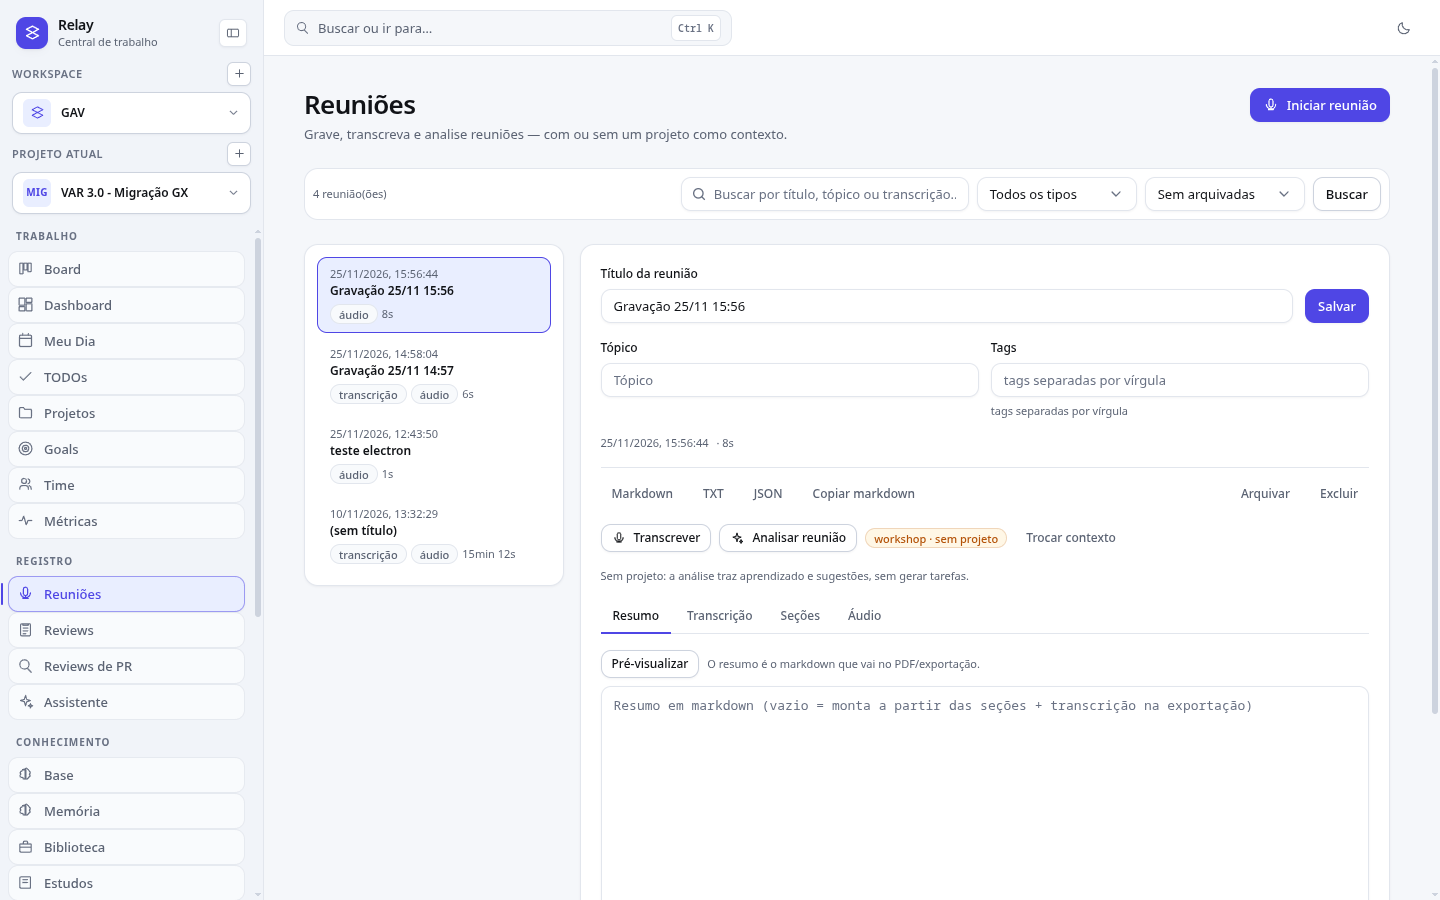
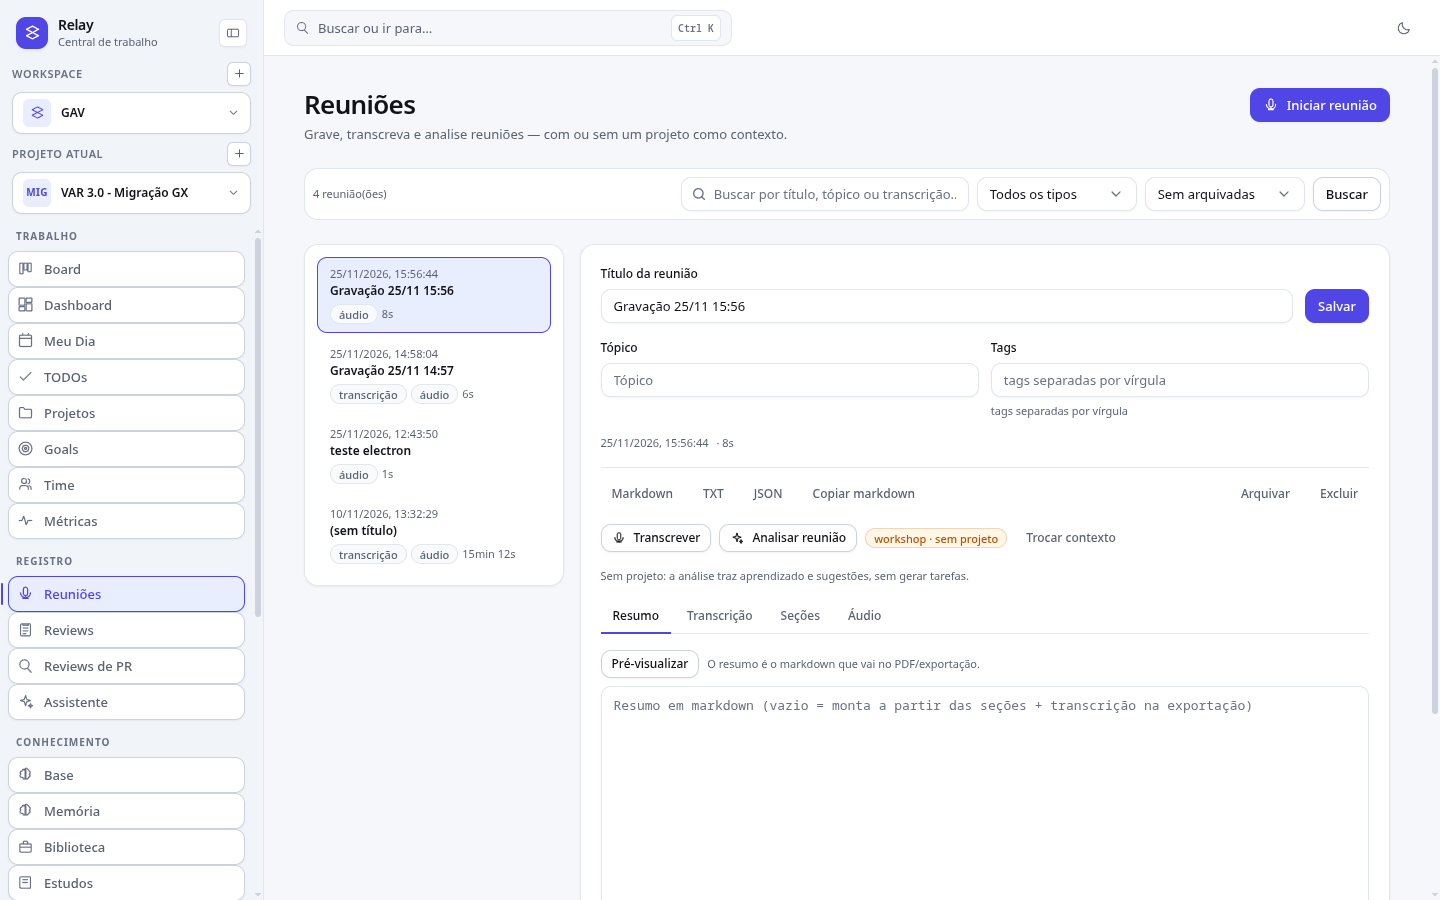
fix(ui): forçar bundle atual no Electron e reforçar bordas do menu
- Electron limpa cache HTTP e service workers/cachestorage a cada boot
- PWA usa relay-v2; no Electron o SW é removido para não servir UI antiga
- itens do menu com borda forte, fundo de superfície e hover accent
- prints oficiais recapturados

diff --git a/local-client/webui/src/shell/Sidebar.jsx b/local-client/webui/src/shell/Sidebar.jsx
@@ -65,8 +65,8 @@ function NavItem({ to, label, icon, rail, badge, onClick }) {
           'group relative flex h-9 items-center gap-2.5 rounded-md border px-2 text-base font-medium transition',
           rail ? 'justify-center px-0' : '',
           isActive
-            ? 'border-accent/50 bg-accent-soft text-accent shadow-xs'
-            : 'border-border/80 bg-surface/60 text-fg-muted hover:border-border-strong hover:bg-surface hover:text-fg hover:shadow-xs',
+            ? 'border-accent bg-accent-soft text-accent shadow-sm'
+            : 'border-border-strong bg-surface text-fg-muted shadow-xs hover:border-accent/50 hover:bg-surface-2 hover:text-fg',
         ].join(' ')
       }
     >
@@ -160,7 +160,7 @@ export default function Sidebar({ rail, onToggleRail, onNavigate, children }) {
           <a
             href="relay://vault"
             title={t('Cofre KeePass no desktop')}
-            className={`group flex h-9 items-center gap-2.5 rounded-md border border-border/80 bg-surface/60 px-2 text-base font-medium text-fg-muted transition hover:border-border-strong hover:bg-surface hover:text-fg hover:shadow-xs ${rail ? 'justify-center px-0' : ''}`}
+            className={`group flex h-9 items-center gap-2.5 rounded-md border border-border-strong bg-surface px-2 text-base font-medium text-fg-muted shadow-xs transition hover:border-accent/50 hover:bg-surface-2 hover:text-fg ${rail ? 'justify-center px-0' : ''}`}
           >
             <span className="text-fg-subtle group-hover:text-fg-muted"><Icon name="lock" size={17} /></span>
             {!rail && (

diff --git a/electron/main.js b/electron/main.js
@@ -221,7 +221,7 @@ function recoverRenderer(reason) {
   try { win.reload(); } catch (e) { log('falha ao recarregar:', e.message); }
 }
 
-function createWindow() {
+async function createWindow() {
   const route = parseRoute();
   win = new BrowserWindow({
     width: 1400,
@@ -233,6 +233,15 @@ function createWindow() {
     },
   });
   if (route) log('rota inicial:', route);
+  // O bundle é servido localmente; limpar o cache evita abrir uma UI antiga
+  // depois de atualizar o webui-dist (o service worker do PWA é removido junto).
+  try {
+    await win.webContents.session.clearCache();
+    await win.webContents.session.clearStorageData({ storages: ['serviceworkers', 'cachestorage'] });
+    log('cache da UI limpo na inicialização');
+  } catch (e) {
+    log('falha ao limpar cache da UI:', e.message);
+  }
   win.loadURL(urlFor(route));
   win.webContents.on('render-process-gone', (_event, details) => {
     log('renderer encerrado:', details.reason, details.exitCode);
@@ -372,7 +381,7 @@ if (!gotLock) {
       app.quit();
       return;
     }
-    createWindow();
+    createWindow().catch((e) => log('falha ao criar janela:', e?.message || e));
     try {
       createTray();
     } catch (e) {

diff --git a/local-client/webui/src/main.jsx b/local-client/webui/src/main.jsx
@@ -10,7 +10,22 @@ import './styles/theme.css'
 applyTheme(getTheme())
 
 // PWA: registra o service worker (só no build de produção)
-if (import.meta.env.PROD && 'serviceWorker' in navigator) {
+const IS_ELECTRON = /Electron/i.test(navigator.userAgent)
+if (IS_ELECTRON && 'serviceWorker' in navigator) {
+  // A UI é local no Electron; não deixe um service worker antigo servir bundle velho.
+  const tinhaController = !!navigator.serviceWorker.controller
+  navigator.serviceWorker.getRegistrations()
+    .then((regs) => Promise.all(regs.map((r) => r.unregister())))
+    .then(() => (window.caches ? caches.keys() : []))
+    .then((keys) => Promise.all((keys || []).map((k) => caches.delete(k))))
+    .then(() => {
+      if (tinhaController && !sessionStorage.getItem('relay.sw.cleared')) {
+        sessionStorage.setItem('relay.sw.cleared', '1')
+        location.reload()
+      }
+    })
+    .catch(() => {})
+} else if (import.meta.env.PROD && 'serviceWorker' in navigator) {
   window.addEventListener('load', () => {
     navigator.serviceWorker.register('/sw.js').catch(() => {})
   })

diff --git a/local-client/webui/public/sw.js b/local-client/webui/public/sw.js
@@ -1,5 +1,5 @@
 // Service worker do Relay web (PWA). Cacheia o app shell; nunca a API.
-const CACHE = 'relay-v1'
+const CACHE = 'relay-v2'
 const SHELL = ['/', '/index.html', '/manifest.webmanifest', '/icon-192.png', '/icon-512.png']
 
 self.addEventListener('install', (e) => {
